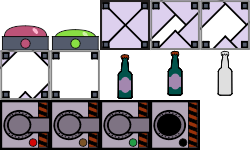
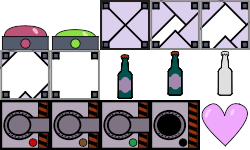
ftr(She): add win animation

Changed region(s): [[0.784, 0.6667, 1.0, 0.9867]]

diff --git a/happily/src/game/Core.js b/happily/src/game/Core.js
@@ -197,17 +197,14 @@ export default class Core {
             tweens: [
                 {
                     x: 200,
-                    ease: 'ease.SineOut',
                     duration: 500
                 },
                 {
                     x: 500,
-                    ease: 'ease.SineInOut',
                     duration: 1000
                 },
                 {
                     x: 1500,
-                    ease: 'ease.SineIn',
                     duration: 500
                 }
             ]
@@ -312,19 +309,43 @@ export default class Core {
     _checkTargets(player) {
         const me = this;
 
-        let changed = false;
+        let changed = -1;
         for (let i = 0; i < me._targets.length; ++i) {
             const success = me._targets[i].checkComplete(player);
 
             if (success)
-                changed = true;
+                changed = i;
         }
 
-        if (!changed)
+        if (changed == -1)
             return;
 
         const completed = me._targets.filter((t) => t.isCompleted).length;
         me._hud.setText(`${completed}/${me._targets.length}`);
+
+        if (completed != me._targets.length)
+            return;
+
+        const target = Config.Levels[me._levelIndex].targets[changed];
+        const position = Utils.buildPoint(target.x, target.y);
+
+        me._player.startWin(position);
+        me._she.startWin(position, () => {
+            me._scene.time.delayedCall(800, () => {
+                const heart = me._scene.add.image(position.x - 25, position.y - 25, 'items', 14);
+                me._scene.add.tween({
+                    targets: heart,
+                    y: position.y - 100,
+                    duration: 2000,
+                    ease: 'ease.SinIn',
+                    alpha: { from: 1, to: 0 },
+                    scale: { from: 0.75, to: 1.25 }
+                });
+            });
+            me._scene.time.delayedCall(1500, () => {
+                me._startRestart();
+            });
+        });
     }
 
     _checkDeath(player) {
@@ -362,7 +383,7 @@ export default class Core {
         me._scene.add.tween({
             targets: me._fade,
             alpha: { from: 0, to: 1 },
-            ease: 'ease.SineInOut',
+            ease: 'Sine.easeInOut',
             duration: 1000,
             onComplete: () => {
                 me._scene.scene.restart(me._levelIndex);
@@ -393,7 +414,7 @@ export default class Core {
                     targets: wave,
                     x: player.x + 200 * (i == 0 ? -1 : 1),
                     alpha: { from: 1, to: 0 },
-                    ease: 'ease.SineOut',
+                    ease: 'Sine.easeOut',
                     duration: 1000,
                     onComplete: () => { me._waves.killAndHide(wave)}
                 });

diff --git a/happily/src/game/She.js b/happily/src/game/She.js
@@ -177,7 +177,7 @@ export default class She {
             targets: me._container,
             x: target.x,
             y: target.y,
-            ease: 'ease.SineInOut',
+            ease: 'Sine.easeInOut',
             duration: Utils.getTweenDuration(
                 Utils.toPoint(me._container),
                 target,
@@ -253,5 +253,44 @@ export default class She {
 
         me._wings.setVisible(false);
         me._sprite.play('she_death');
+    }
+
+    startWin(position, callback) {
+        const me = this;
+
+        if (!!me._tween)
+            me._tween.stop();
+
+        me._wings.play('wings_fly').setFlipX(true);
+        me._sprite.play('she_fly').setFlipX(true);
+        me._container.setDepth(Consts.Depth.Foreground);
+        me.state = Enums.SheState.WIN;
+
+        me._scene.tweens.timeline({
+            targets: me._container,
+            onComplete: () => {
+                if (!!callback)
+                    callback();
+            },
+            tweens: [
+                {
+                    x: position.x - 15,
+                    y: position.y - 300,
+                    ease: 'Sine.easeInOut',
+                    duration: 2000,
+                    onComplete: () => {
+                        me._wings.play('wings_close');
+                    }
+                },
+                {
+                    y: position.y,
+                    ease: 'Sine.easeInOut',
+                    duration: 1000,
+                    onComplete: () => {
+                        me._sprite.play('she_kiss');
+                    }
+                }
+            ]
+        })
     }
 }

diff --git a/happily/src/game/Player.js b/happily/src/game/Player.js
@@ -176,6 +176,15 @@ export default class Player {
         me._sprite.play('player_death', true);
     }
 
+    startWin(pos) {
+        const me = this;
+
+        me.disablePhysics();
+        me._sprite.play('player_idle', true).setFlipX(false);
+        me._container.setPosition(pos.x - 50, pos.y);
+        me.isBusy = true;
+    }
+
     _getVelocity(fly) {
         const me = this;
 

diff --git a/happily/src/scenes/Game.js b/happily/src/scenes/Game.js
@@ -140,6 +140,13 @@ export default class Game extends Phaser.Scene {
             repeat: -1
         });
 
+        me.anims.create({
+            key: 'she_kiss',
+            frames: me.anims.generateFrameNumbers('she', { frames: [ 0, 14, 15, 16, 15, 0 ] }),
+            frameRate: 6,
+            repeat: 0
+        });
+
         // wings
 
         me.anims.create({

diff --git a/happily/src/game/Config.js b/happily/src/game/Config.js
@@ -25,7 +25,8 @@ export default class Config {
                 // { x: 725, y: 550, angle: 180 },
             ],
             targets: [
-                { x: 375, y: 713, type: Enums.TargetType.IRON }
+                { x: 375, y: 713, type: Enums.TargetType.IRON },
+                { x: 550, y: 713, type: Enums.TargetType.KETTLE }
             ]
         }
     ]

diff --git a/happily/src/game/Enums.js b/happily/src/game/Enums.js
@@ -21,6 +21,7 @@ export default class Enums {
         CATCH: 2,
         FLY: 3,
         MOVEMENT: 4,
+        WIN: 5,
     }
 
     static TargetType = {
